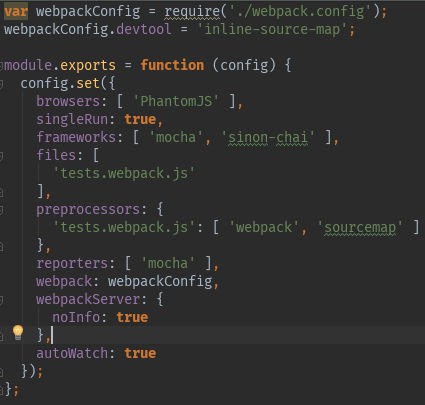
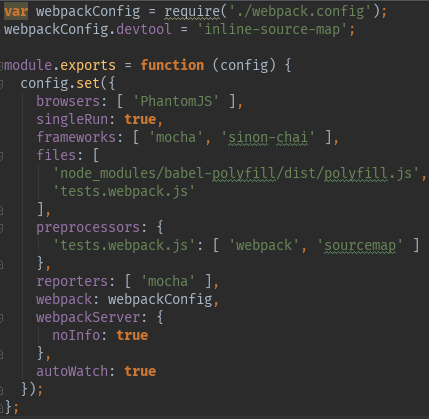
move exemplary test to separate file, add babel-polyfill

diff --git a/karma.conf.js b/karma.conf.js
@@ -7,6 +7,7 @@ module.exports = function (config) {
     singleRun: true,
     frameworks: [ 'mocha', 'sinon-chai' ],
     files: [
+      'node_modules/babel-polyfill/dist/polyfill.js',
       'tests.webpack.js'
     ],
     preprocessors: {

diff --git a/README.md b/README.md
@@ -120,9 +120,9 @@ Browser we want to perform tests with, e.g. PhantomJS. We need the browser itsel
 
 <br/>
 
-![dependency7](./images/dependency7.png)
+![dependency8](./images/dependency8.png)
 
-React test utilities
+If we use Phantom, we need babel-polyfill to use Promises
 
 <br/>
 
